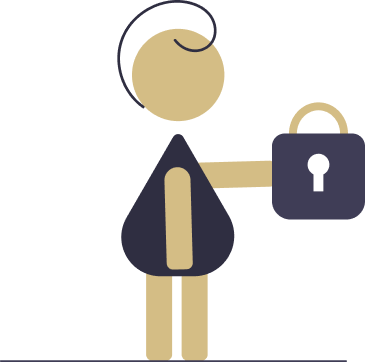
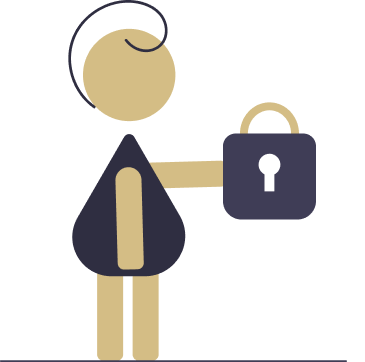
refactor: update styles screen password reset success

diff --git a/src/screens/Client/PasswordResetSuccess/index.tsx b/src/screens/Client/PasswordResetSuccess/index.tsx
@@ -10,8 +10,14 @@ export function PasswordResetSuccess() {
   const navigation = useNavigation()
   return (
     <Container>
-      <Image source={passwordResetSuccess} />
-      <TextSuccess>Senha Alterada com sucesso!</TextSuccess>
+      <Image source={passwordResetSuccess} 
+      style={{
+              marginTop:36,
+              width:365,
+              height:362
+            }}
+          />
+      <TextSuccess>{`Senha Alterada \n com sucesso!`}</TextSuccess>
       <Button title="Finalizar" onPress={() => navigation.navigate('Home')} />
     </Container>
   )

diff --git a/src/screens/Client/PasswordResetSuccess/styles.ts b/src/screens/Client/PasswordResetSuccess/styles.ts
@@ -5,8 +5,10 @@ export const Container = styled.SafeAreaView`
 flex: 1;
 background-color: ${({ theme }) => theme.COLORS.white_100};
 align-items: center;
+justify-content: center;
 padding: ${RFValue(16)}px;
-`
+`;
+
 export const TextSuccess = styled.Text`
 font-weight: 600;
 font-size: 24px;
@@ -17,3 +19,4 @@ text-transform: uppercase;
 margin-top: ${RFValue(56)}px;
 margin-bottom: ${RFValue(38)}px;
 `
+;
